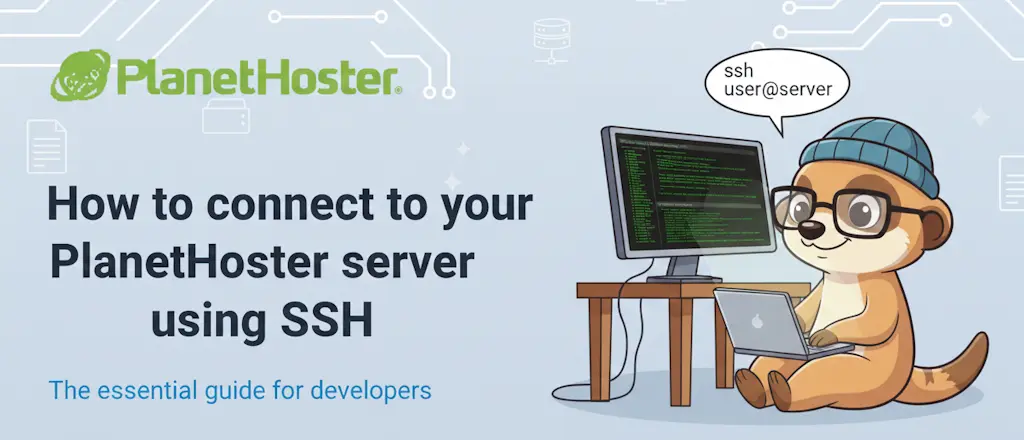
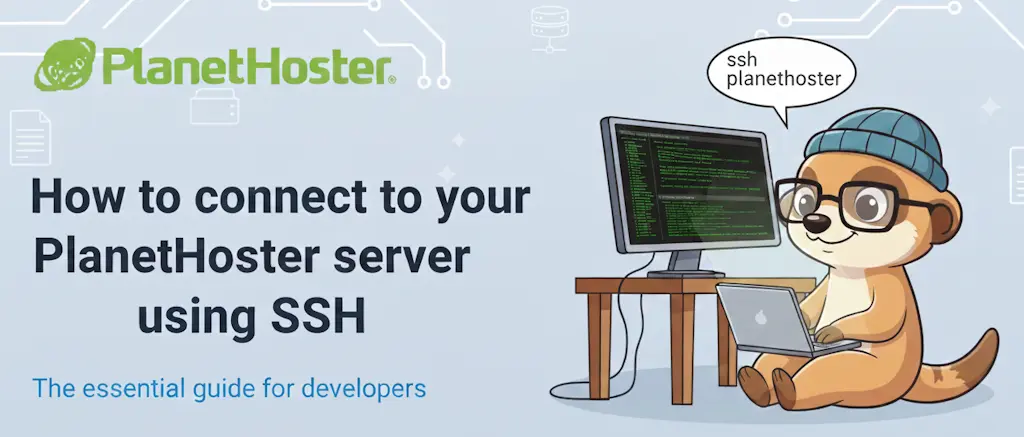
wip: ssh on planethoster

diff --git a/blog/planethoster-using-ssh/index.md b/blog/planethoster-using-ssh/index.md
@@ -1,0 +1,169 @@
+---
+slug: planethoster-using-ssh
+title: How to Connect to Your PlanetHoster Server Using SSH
+authors: [christophe]
+mainTag: ssh
+tags: [planethoster, ssh, tips, vscode]
+image: /img/v2/planethoster-using-ssh.webp
+draft: true
+date: 2025-12-22
+---
+![How to Connect to your PlanetHoster server using SSH](/img/v2/planethoster-using-ssh.webp)
+
+This guide explains how to configure SSH to connect to your PlanetHoster server using a short alias (for example, `ssh planethoster`) so you can SSH without entering a password every time.
+
+You'll learn how to gather the required information, generate an SSH key pair, copy your public key to the server, and set up `~/.ssh/config` for a convenient shortcut.
+
+<!-- truncate -->
+
+## Collect Required Information
+
+You'll need to obtain the following pieces of information:
+
+1. The username for the connection
+2. The server name (or its IP address)
+3. The port number to use
+4. The password associated with the user account.
+
+For the first three items, log in to the [PlanetHoster dashboard](https://my.planethoster.com/v2/hosting-management/overview).
+
+You'll land on the dashboard page. In the left sidebar, navigate to **Web Hosting --> Account Management** and click the arrow to open the page:
+
+![Opening your control panel](./images/web_hosting.webp)
+
+At the top of [the page](https://mg.n0c.com/), you'll find the three required pieces of information:
+
+* The *Current user*: the username to use for SSH.
+* Your server name (and its IP address).
+* The SSH port to use (likely `5022`).
+
+![Your Planethoster Dashboard page](./images/planethoster_dashboard.webp)
+
+The fourth piece of information to gather is the password associated with your user account.
+
+<StepsCard
+  title="For the rest of this article, we'll use these placeholders:"
+  variant="steps"
+  steps={[
+    "User: `john_doe`",
+    "Server name: `node30-eu.n0c.com`",
+    "Port number: `5022`",
+    "Password: `p@ssword`"
+  ]}
+/>
+
+## Try a Manual SSH Connection
+
+In a Linux console, run the following command:
+
+<Terminal wrap={true}>
+$ ssh -p 5022 john_doe@node30-eu.n0c.com
+</Terminal>
+
+You'll be prompted for a password; enter your account password.
+
+If you get a shell, run `ls -al` to list files and `pwd` or `whoami` to confirm you are in your home directory:
+
+![Seeing the root directory using SSH](./images/ssh_logged_in.webp)
+
+If the login succeeds, you should normally be in your user's home directory (not the system root).
+
+<AlertBox variant="caution" title="What to do if you get a timeout">
+If the `ssh` command takes a long time and then ends with a timeout, it likely means you are using incorrect information, such as the wrong username.
+
+PlanetHoster may detect multiple failed connection attempts, interpret them as a security threat, and block your IP address. If this happens, even with the correct command, you won't be able to connect because your IP will be blacklisted.
+
+In this case, you'll have to wait a certain amount of time. If you're blocked, you can create a support ticket with PlanetHoster to ask for your IP to be unblocked.
+</AlertBox>
+
+## Create an SSH Key to Connect to PlanetHoster
+
+In the previous step, we've confirmed that we can connect to the server.
+
+In this section, we'll create an SSH key and copy it to the server. This will allow passwordless authentication for future connections.
+
+### Create an SSH key
+
+On your local machine, run a command like `ssh-keygen -t ed25519 -C "john_doe" -f ~/.ssh/id_ed25519_planethoster` in your terminal. This will create a public key `~/.ssh/id_ed25519_planethoster.pub` for your account.
+
+Optionally, you can run `cat ~/.ssh/id_ed25519_planethoster.pub` to view the content of your public key and copy it to the clipboard ( <kbd>CTRL</kbd>+<kbd>C</kbd> ).
+
+Select its content and press <kbd>CTRL</kbd>+<kbd>C</kbd> to copy it to the clipboard.
+
+<AlertBox variant="info">
+The key will look something like `ssh-ed25519 BASE64_STRING john_doe`.
+</AlertBox>
+
+### Copy your key to the server
+
+Run `ssh-copy-id -i ~/.ssh/id_ed25519_planethoster -p 5022 john_doe@node30-eu.n0c.com` to copy your public key to the PlanetHoster server.
+
+You'll be prompted to enter your password one last time.
+
+<Terminal wrap={true}>
+$ ssh-copy-id -i ~/.ssh/id_ed25519_planethoster -p 5022 john_doe@node30-eu.n0c.com
+
+/usr/bin/ssh-copy-id: INFO: Source of key(s) to be installed: "/home/john_doe/.ssh/id_ed25519_planethoster.pub"
+/usr/bin/ssh-copy-id: INFO: attempting to log in with the new key(s), to filter out any that are already installed
+/usr/bin/ssh-copy-id: INFO: 1 key(s) remain to be installed -- if you are prompted now it is to install the new keys
+
+john_doe@node30-eu.n0c.com's password:
+
+Number of key(s) added: 1
+</Terminal>
+
+Once your public key has been successfully copied to the server, you will be able to connect without providing a password.
+
+Run the command below as a test:
+
+<Terminal wrap={true}>
+$ ssh -i ~/.ssh/id_ed25519_planethoster -p 5022 john_doe@node30-eu.n0c.com
+</Terminal>
+
+As expected, you'll be immediately connected without a password prompt.
+
+### Simplify the Command with an SSH Config File
+
+The command is quite complex, isn't it? Let's simplify it so we can just use `ssh planethoster`.
+
+To do this, run `vi ~/.ssh/config` (or your preferred editor) to open your SSH configuration file. If the file doesn't exist yet, create it.
+
+Add the block below to the file (remember to update the placeholders):
+
+<Snippet filename="~/.ssh/config" source="./files/config" />
+
+Save and close the file.
+
+Also, make sure to set the correct permissions for your key by running `chmod 0600 ~/.ssh/id_ed25519_planethoster*`. This makes the key files accessible only to you.
+
+<AlertBox variant="note" title="WARNING: UNPROTECTED PRIVATE KEY FILE!">
+If you don't set the correct permissions with `chmod`, you will get an error like the one below when you try to connect:
+
+```text
+@@@@@@@@@@@@@@@@@@@@@@@@@@@@@@@@@@@@@@@@@@@@@@@@@@@@@@@@@@@
+@         WARNING: UNPROTECTED PRIVATE KEY FILE!          @
+@@@@@@@@@@@@@@@@@@@@@@@@@@@@@@@@@@@@@@@@@@@@@@@@@@@@@@@@@@@
+Permissions 0644 for '/home/john_doe/.ssh/id_ed25519_planethoster' are too open.
+```
+
+</AlertBox>
+
+### Establish an Easy SSH Connection
+
+From now on, to start an SSH connection to your host, open a terminal and run `ssh planethoster` (or the alias you defined). If everything is configured correctly, you will be connected without a password prompt.
+
+![Success](./images/success.webp)
+
+## Troubleshooting & tips
+
+* If a connection fails, run the SSH client in verbose mode to see debug output: `ssh -vvv -p 5022 john_doe@node30-eu.n0c.com`.
+* If you see a `WARNING: UNPROTECTED PRIVATE KEY FILE!` error, check local permissions on your private key and use `chmod 600` as shown earlier.
+* On the server, verify that your key exists in `~/.ssh/authorized_keys` and that `~/.ssh` and `authorized_keys` have correct permissions.
+
+## Conclusion
+
+This guide showed how to set up key-based SSH access to a PlanetHoster server and create a simple `ssh planethoster` shortcut.
+
+
+
+
